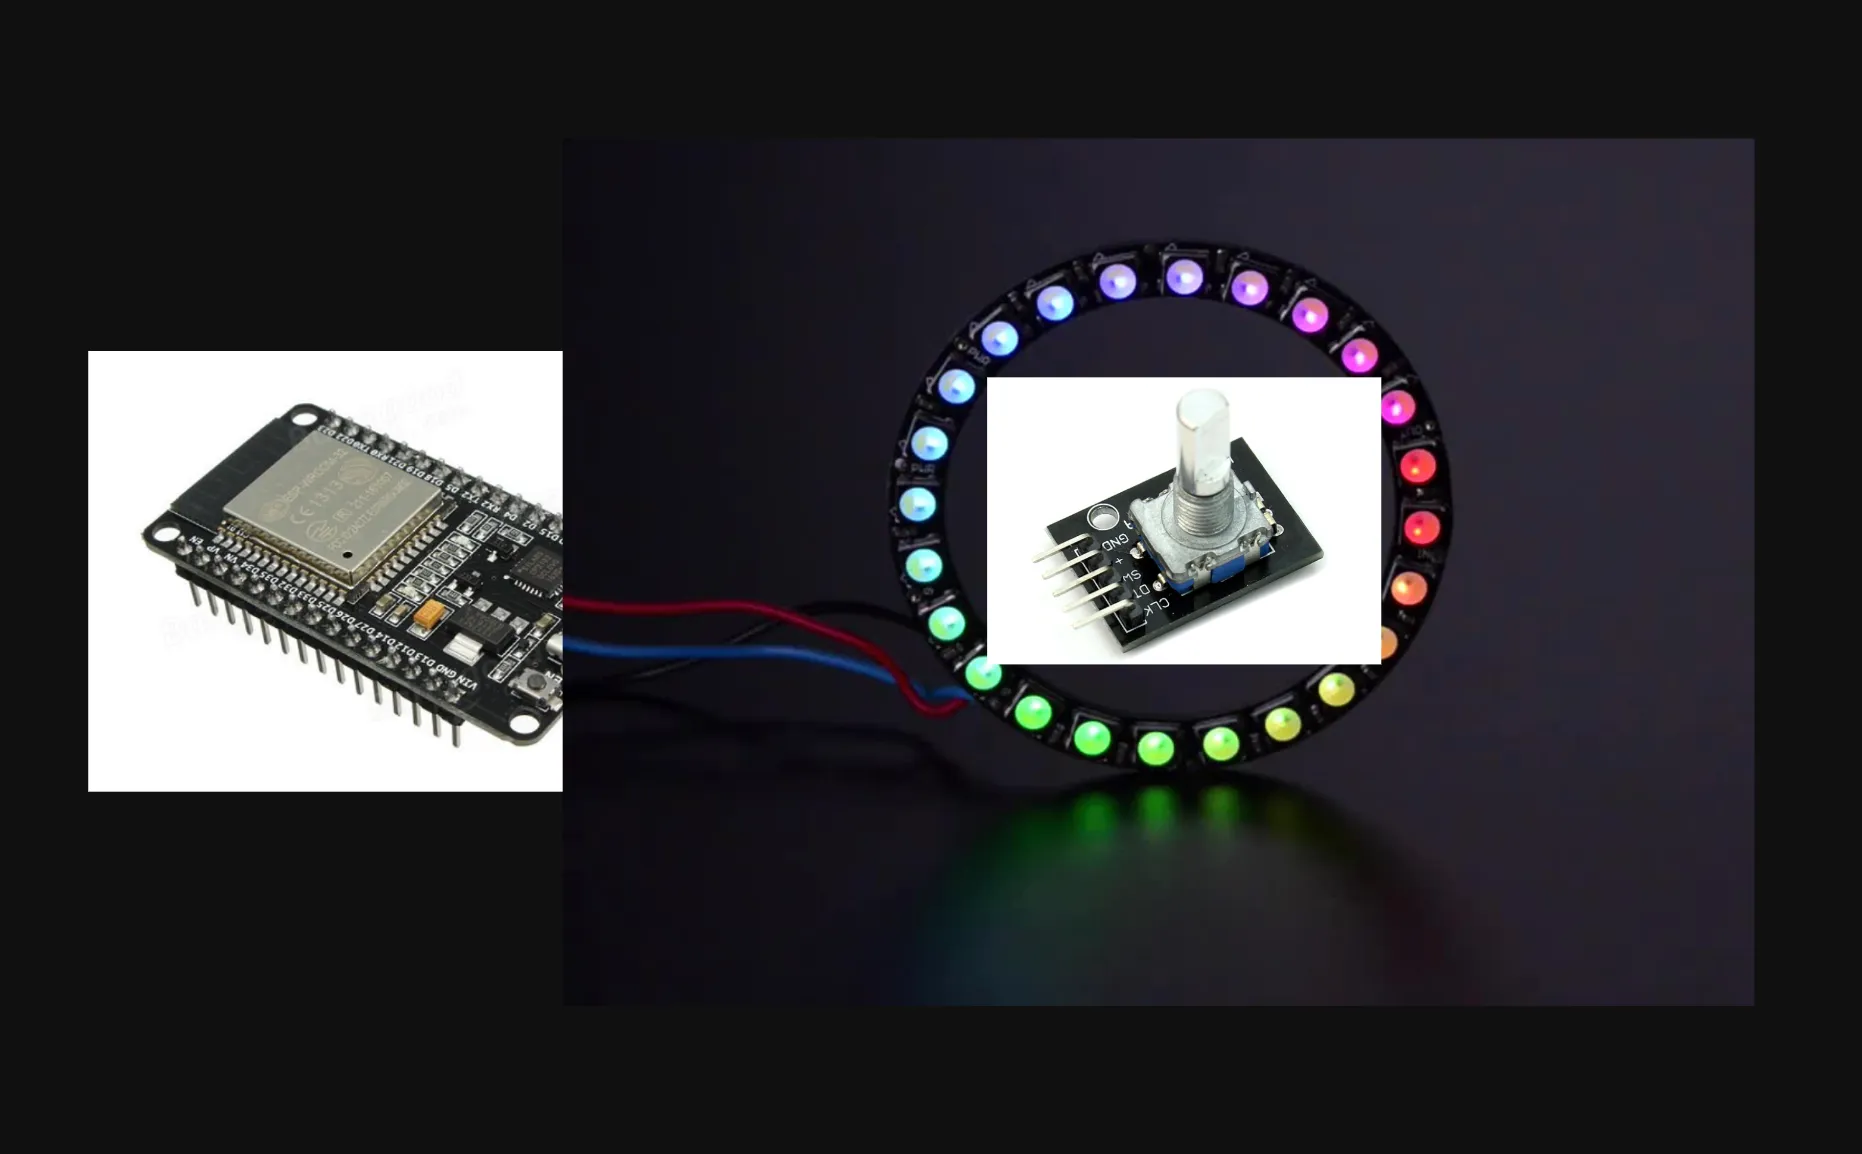
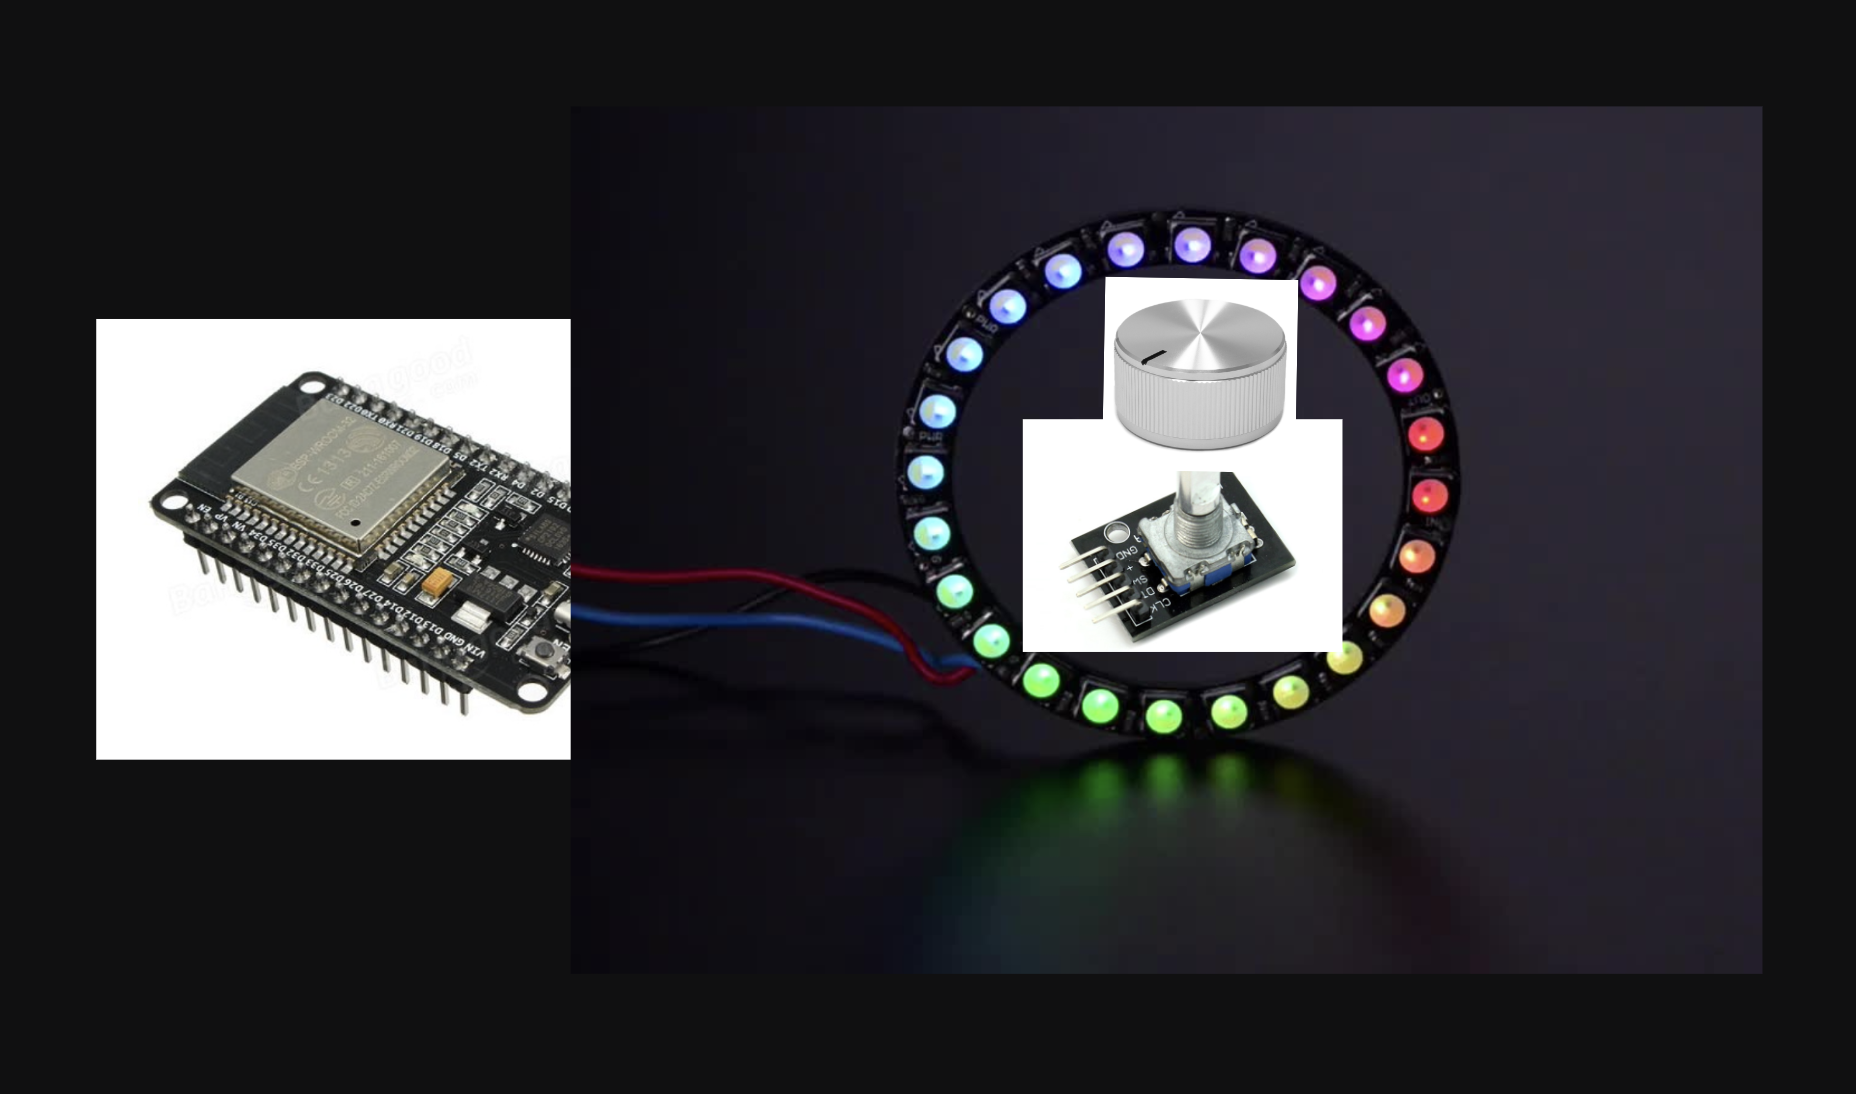
More speaker post updates

diff --git a/content/posts/volume-controller-1/index.md b/content/posts/volume-controller-1/index.md
@@ -4,57 +4,53 @@ date: 2024-07-21
 sharing: false
 ---
 
-I got some fancy new speakers last week, but they're so loud that it's
-difficult to make small volume adjustments within the range of safe volume
-levels for my apartment.
-In this series of posts, I'll talk about building a custom volume knob for these
-speakers in order to get finer control in the range I usually listen in.
+I got some fancy new speakers last week.
+
+They're powered speakers and they have streaming service integrations built in,
+unlike the 35-year-old passive speakers I'm upgrading from.
+Overall they're great!
+But they're so loud that it's difficult to make small volume adjustments within
+the range of safe volume levels for my apartment.
+
+To solve that, I'm building a custom volume knob for them them that will give me
+more precise control within the range I like to listen in.
 
 ![The speakers](speakers.webp)
 
-# Background
-
-I bought these JBLs to replace the 35-year-old Kenwood speakers that I picked up
-at a thrift store some years ago.
-
-Unlike those old Kenwoods, these are powered speakers, so they don't require an
-external amplifier.
-They also have wifi and music streaming service integrations built-in.
-This has allowed me to really simplify my setup, which used to include a big
-amplifier and a [WiiM Mini](https://wiimhome.com/wiimmini/overview) for
-streaming.
-
 # The problem
 
-The speakers sound great! But they're way louder than I need. I typically use
-less than 20% of the volume range they're capable of.
+The speakers sound great, but they're way louder than I need.
+I typically use about 10% of the volume range they're capable of.
 
-This becomes an issue when I try to change the volume from the volume buttons on
-my phone while streaming from Spotify, which is usually the most convenient way
-for me to change the volume.
-That method gives me about 15 steps, but the jump from step 3 to step 4 takes
-them from "a bit too quiet" to "definitely bothering the neighbors" levels.
+That makes it difficult to set the volume levels I prefer using the methods most
+convenient for me, which are either the regular volume controls on my phone or
+computer if I'm using AirPlay or the volume slider in Spotify if I'm using
+Spotify Connect.
+Those methods either give me a tiny slider that I can only use 10% of or about
+15 steps where the jump from step 3 to step 4 takes the speakers from
+"a bit too quiet" to "definitely bothering the neighbors" levels.
 
 The amp that I used to use was overpowered for my room too, but that wasn't an
-issue for me because the volume controls on my phone just changed the WiiM's
-output, not the amp.
+issue for me because those volume control methods attenuated the output of a
+music streamer that I had connected to the amp.
 With that system, I could set the amplifier's analog volume knob such that the
-max volume out of the WiiM corresponded to my actual maximum preferred listening
-volume,
-giving me access to the full range of Spotify's volume controls.
+max volume out of the streamer corresponded to my actual maximum preferred
+listening volume,
+giving me access to the full range of Spotify or AirPlay's volume controls.
 
 Some powered speakers solve this issue by providing control over the max volume,
 either by a physical knob or by a software setting, but unfortunately these
 JBLs do not.
 
-# My solution
+# Finding a solution
 
 While thinking about this problem, I remembered that some other
 network-connected audio devices I've encountered expose undocumented web
 interfaces.
 I was curious if these speakers did, so I found their local IP address via my
 router and navigated to that IP in my browser.
-Lo and behold, they do have an undocumented web interface!
+
+Lo and behold, they do have one!
 
 ![The speakers' web interface](web-interface.png)
 
@@ -62,10 +58,10 @@ Sadly, the volume slider there was still not as convenient as I'd like.
 
 ## Reverse-engineering the speakers' API
 
-After exploring for a few minutes with my browser's network dev tools, I found
-that the speakers expose a pretty straightforward HTTP API, including `GET
-/api/getData` and `POST /api/setData`, which allow me to read and write the
-current volume level, among other things.
+After exploring that web interface for a few minutes with my browser's network
+dev tools, I found that the speakers expose a pretty straightforward HTTP API,
+including `GET /api/getData` and `POST /api/setData`,
+which allow me to read and write the current volume level, among other things.
 
 I tried to find some documentation of this API online, but the closest I could
 find was [the source code for a Hombridge plugin for KEF
@@ -160,13 +156,17 @@ $ tree ~/Downloads/temp_data_logs
 ```
 
 That helped me track down two specific configuration paths that looked
-promising: `hostlink/maxVolume` and `player/attenuation`.
+promising: `player/attenuation` and `hostlink/maxVolume`.
 
 Sadly, neither of those turned out to be what I was looking for.
 
-`hostlink/maxVolume` doesn't seem to affect anything that I've noticed, and the
-API response implies that it has to do with [Arcam](https://www.arcam.co.uk/),
-yet another Samsung/Harman subsidiary.
+`player/attenuation` turned out to be another interface to the main volume,
+more-or-less an alias of `player:volume`.
+
+`hostlink/maxVolume` sounded like it could be exactly what I was hoping to find.
+Unfortunately, changing it doesn't seem to affect anything that I've noticed,
+and the API response implies that it has to do with
+[Arcam](https://www.arcam.co.uk/) (yet another Samsung/Harman subsidiary):
 
 ```bash
 $ curl --url 'http://192.168.1.239/api/getData?path=settings:/hostlink/maxVolume&roles=@all' | jq
@@ -186,9 +186,6 @@ $ curl --url 'http://192.168.1.239/api/getData?path=settings:/hostlink/maxVolume
   }
 }
 ```
-
-`player/attenuation` turned out to be another interface to the main volume,
-more-or-less an alias of `player:volume`.
 
 ## Building a custom volume-control webpage
 
@@ -213,6 +210,8 @@ dependencies other than Bun itself:
 const MAX_VOLUME = 25;
 const SPEAKER_URL = "http://192.168.1.239";
 const UPDATE_INTERVAL_SECONDS = 10;
+
+const getVolumeUrl = `${SPEAKER_URL}/api/getData?path=player:volume&roles=@all`;
 
 function html(strings: TemplateStringsArray, ...values: any[]) {
   return strings.reduce((result, string, i) => {
@@ -262,6 +261,8 @@ const pageHtml = html`<html>
       disabled
     />
     <script>
+      // Yes, this is JavaScript embedded in HTML embedded in TypeScript.
+
       function setBackgroundGradient() {
         const percentage = (volume.value / ${MAX_VOLUME}) * 100;
         document.body.style.setProperty("--volume", \`\${percentage}%\`);
@@ -304,8 +305,7 @@ const server = Bun.serve({
       case "/volume":
         switch (request.method) {
           case "GET": {
-            let url = `${SPEAKER_URL}/api/getData?path=player%3Avolume&roles=%40all`;
-            const response = await fetch(url);
+            const response = await fetch(getVolumeUrl);
             const body = await response.json();
             return new Response(body.value.i32_);
           }
@@ -315,6 +315,8 @@ const server = Bun.serve({
 
             console.log(`Setting volume to ${volume}.`);
 
+            // I don't want to blow out the speakers or go deaf because of a bug
+            // somewhere else in this code, so I check for high volumes here.
             if (volume > MAX_VOLUME) {
               console.error("That's too high!", volume);
               return new Response("Volume too high", { status: 500 });
@@ -357,8 +359,8 @@ This works alright for now, but what I really want is a _physical_ volume knob
 that I can place wherever it's convenient in my apartment.
 
 In the next post in this series, I'll talk about building that, probably using
-something like an ESP32 board with a rotary encoder.
-Something like this, with a nice enclosure and a nice feeling knob, maybe with
+something like an ESP32 board with a rotary encoder,
+a nice enclosure and a nice feeling knob, maybe with
 some kind of haptic feedback for the stepped volume changes?
 
 ![Some of the components I might use](parts.webp)
